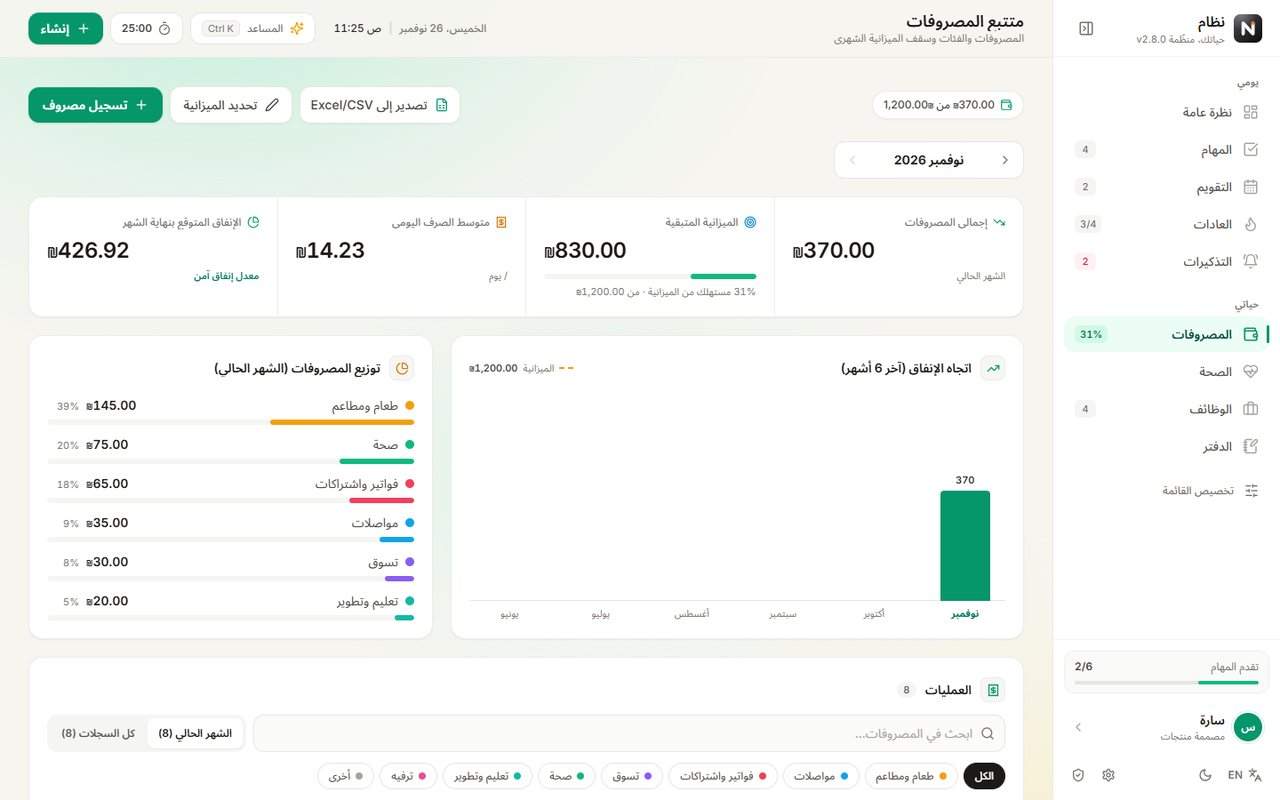
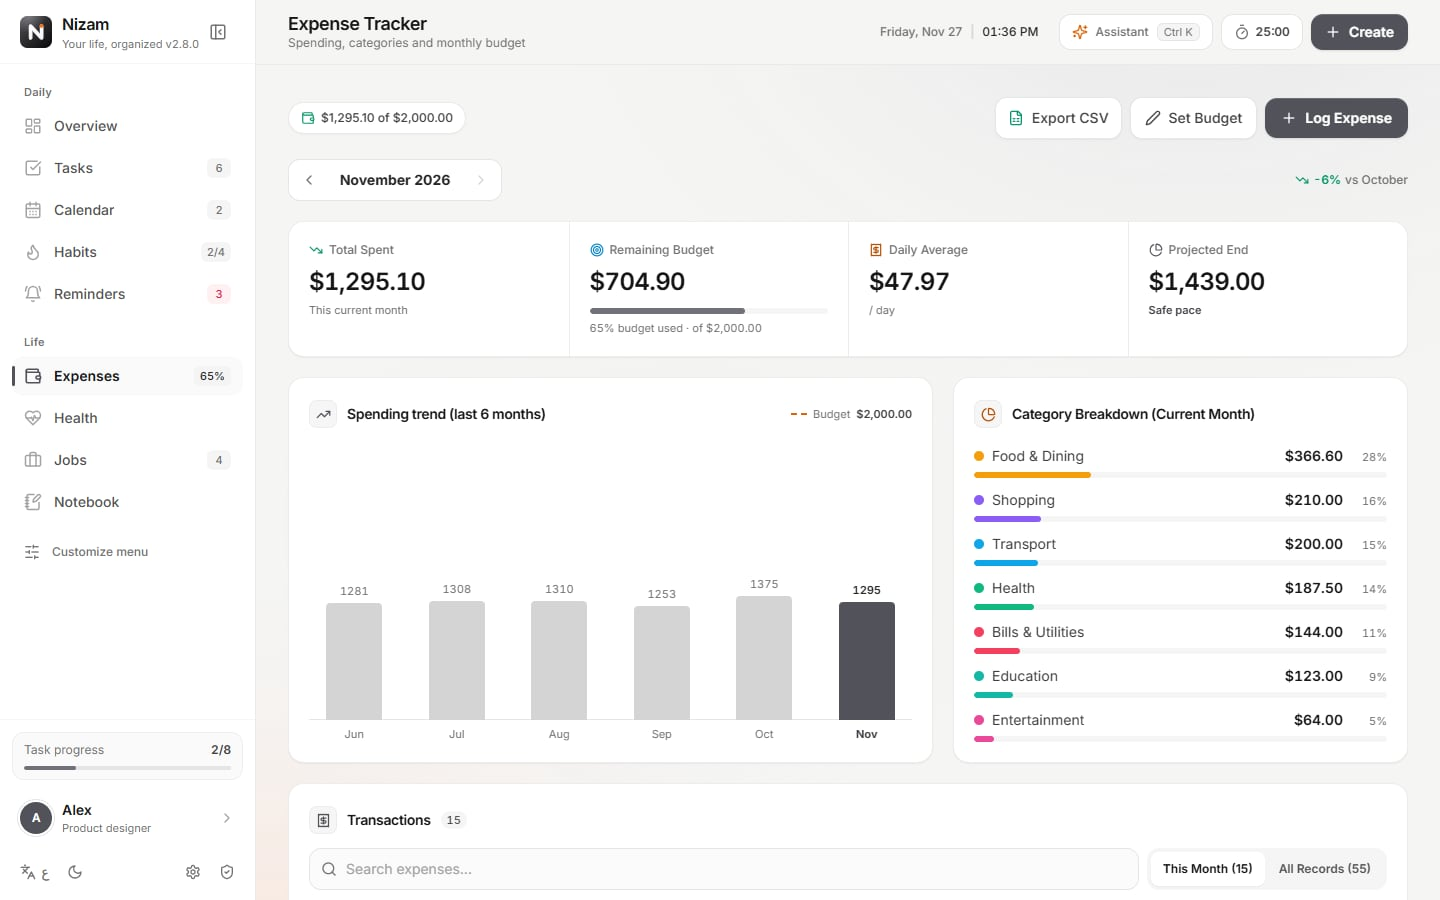
New English screenshots (Graphite, light + dark, example data); repo renamed to Nizam-App

diff --git a/README.md b/README.md
@@ -6,39 +6,58 @@
 Arabic & English · works offline · no account, no server · your data never leaves your computer</p>
 
 <p align="center">
-  <a href="https://github.com/Omar-Aqel/nizam-releases/releases/latest"><b>⬇ Download the latest version for Windows</b></a><br/>
+  <a href="https://github.com/Omar-Aqel/Nizam-App/releases/latest"><b>⬇ Download the latest version for Windows</b></a><br/>
   <a href="FEATURES.md">All features</a> · <a href="CHANGELOG.md">Changelog</a> · <a href="#بالعربية">العربية ↓</a>
 </p>
 
-<p align="center"><img src="docs/screenshots/overview.jpg" width="880" alt="Nizam Overview in Arabic: greeting, weather, today's progress, numbers strip, today's priorities and schedule" /></p>
+<p align="center"><img src="docs/screenshots/overview.jpg" width="880" alt="Nizam Overview in the Graphite theme, light mode: greeting, Jerusalem weather, today's progress, a numbers strip, today's priorities and the schedule" /></p>
 
 <table>
   <tr>
-    <td width="33%"><img src="docs/screenshots/overview-dark-en.jpg" alt="Overview in English, dark mode" /><p align="center"><sub>Overview · English, dark</sub></p></td>
-    <td width="33%"><img src="docs/screenshots/reminders.jpg" alt="Reminders page" /><p align="center"><sub>Recurring reminders · التذكيرات</sub></p></td>
-    <td width="33%"><img src="docs/screenshots/habits.jpg" alt="Habits with year heatmaps" /><p align="center"><sub>Habits · العادات</sub></p></td>
+    <td width="33%"><img src="docs/screenshots/overview-dark.jpg" alt="Overview in dark mode with Tel Aviv weather" /><p align="center"><sub>Overview · dark</sub></p></td>
+    <td width="33%"><img src="docs/screenshots/tasks.jpg" alt="Tasks grouped by day" /><p align="center"><sub>Tasks</sub></p></td>
+    <td width="33%"><img src="docs/screenshots/calendar-dark.jpg" alt="Calendar month view, dark mode" /><p align="center"><sub>Calendar · dark</sub></p></td>
   </tr>
   <tr>
-    <td><img src="docs/screenshots/notebook.jpg" alt="Notebook page" /><p align="center"><sub>Notebook · الدفتر</sub></p></td>
-    <td><img src="docs/screenshots/health.jpg" alt="Health page" /><p align="center"><sub>Health · الصحة</sub></p></td>
-    <td><img src="docs/screenshots/jobs.jpg" alt="Job applications board" /><p align="center"><sub>Job applications · الوظائف</sub></p></td>
+    <td><img src="docs/screenshots/habits.jpg" alt="Habits with year heatmaps" /><p align="center"><sub>Habits · a year at a glance</sub></p></td>
+    <td><img src="docs/screenshots/reminders-dark.jpg" alt="Recurring reminders, dark mode" /><p align="center"><sub>Reminders · dark</sub></p></td>
+    <td><img src="docs/screenshots/expenses.jpg" alt="Expenses: budget, six-month trend and categories" /><p align="center"><sub>Expenses</sub></p></td>
   </tr>
   <tr>
-    <td><img src="docs/screenshots/customize.jpg" alt="Customize the Overview" /><p align="center"><sub>Customise the Overview · التخصيص</sub></p></td>
-    <td><img src="docs/screenshots/tasks-dark-en.jpg" alt="Tasks in dark mode" /><p align="center"><sub>Tasks · المهام</sub></p></td>
-    <td><img src="docs/screenshots/settings.jpg" alt="Settings window" /><p align="center"><sub>Settings · الإعدادات</sub></p></td>
+    <td><img src="docs/screenshots/health-dark.jpg" alt="Health: calorie budget, macros, water and food diary, dark mode" /><p align="center"><sub>Health · dark</sub></p></td>
+    <td><img src="docs/screenshots/jobs.jpg" alt="Job applications board" /><p align="center"><sub>Job applications</sub></p></td>
+    <td><img src="docs/screenshots/notebook-dark.jpg" alt="Notebook page, dark mode" /><p align="center"><sub>Notebook · dark</sub></p></td>
   </tr>
 </table>
 
+<details>
+<summary><b>More screenshots: every page in light and dark</b></summary>
+<br/>
+<table>
+  <tr><th>Light</th><th>Dark</th></tr>
+  <tr><td><img src="docs/screenshots/tasks.jpg" alt="Tasks, light" /></td><td><img src="docs/screenshots/tasks-dark.jpg" alt="Tasks, dark" /></td></tr>
+  <tr><td><img src="docs/screenshots/calendar.jpg" alt="Calendar, light" /></td><td><img src="docs/screenshots/calendar-dark.jpg" alt="Calendar, dark" /></td></tr>
+  <tr><td><img src="docs/screenshots/habits.jpg" alt="Habits, light" /></td><td><img src="docs/screenshots/habits-dark.jpg" alt="Habits, dark" /></td></tr>
+  <tr><td><img src="docs/screenshots/reminders.jpg" alt="Reminders, light" /></td><td><img src="docs/screenshots/reminders-dark.jpg" alt="Reminders, dark" /></td></tr>
+  <tr><td><img src="docs/screenshots/expenses.jpg" alt="Expenses, light" /></td><td><img src="docs/screenshots/expenses-dark.jpg" alt="Expenses, dark" /></td></tr>
+  <tr><td><img src="docs/screenshots/health.jpg" alt="Health, light" /></td><td><img src="docs/screenshots/health-dark.jpg" alt="Health, dark" /></td></tr>
+  <tr><td><img src="docs/screenshots/jobs.jpg" alt="Job applications, light" /></td><td><img src="docs/screenshots/jobs-dark.jpg" alt="Job applications, dark" /></td></tr>
+  <tr><td><img src="docs/screenshots/notebook.jpg" alt="Notebook, light" /></td><td><img src="docs/screenshots/notebook-dark.jpg" alt="Notebook, dark" /></td></tr>
+  <tr><td><img src="docs/screenshots/customize.jpg" alt="Customise the Overview, light" /></td><td><img src="docs/screenshots/customize-dark.jpg" alt="Customise the Overview, dark" /></td></tr>
+  <tr><td><img src="docs/screenshots/settings.jpg" alt="Settings, light" /></td><td><img src="docs/screenshots/settings-dark.jpg" alt="Settings, dark" /></td></tr>
+</table>
+<p align="center"><sub>All screenshots use made-up example data, the Graphite theme and the English interface.</sub></p>
+</details>
+
 <p align="center">Designed and developed by <b>Omar Aqel</b> (عمر عقل) · <a href="https://www.linkedin.com/in/omar-aqel-710328343/">LinkedIn</a> · <a href="https://github.com/Omar-Aqel">GitHub</a></p>
 
-> This repository hosts the Windows installers and the auto-update feed. The source code is private.
+> This repository hosts the Windows installers and the auto-update feed (it was called `nizam-releases` before; old links still work). The source code is private.
 
 ---
 
 ## Install
 
-1. Open the **[latest release](https://github.com/Omar-Aqel/nizam-releases/releases/latest)** and download `Nizam-Setup-x.y.z.exe` (under *Assets*).
+1. Open the **[latest release](https://github.com/Omar-Aqel/Nizam-App/releases/latest)** and download `Nizam-Setup-x.y.z.exe` (under *Assets*).
 2. Run it. Windows SmartScreen may warn because the installer isn't code-signed: choose **More info → Run anyway**.
 3. A **Nizam** shortcut is added to the Desktop and the Start menu.
 
@@ -48,7 +67,7 @@ Arabic & English · works offline · no account, no server · your data never le
 
 ## What's new in 2.8
 
-- **Reminders:** "take zinc every other day", "dermaroller on Sunday and Wednesday" — a notification at the time you pick, a tick on the home screen, and the last 7 times at a glance.
+- **Reminders:** "water the plants every 3 days", "call grandma on Friday and Monday" — a notification at the time you pick, a tick on the home screen, and the last 7 times at a glance.
 - **Weather** on the home screen (your city, the sky, the temperature) and **Did you know?** — a new interesting fact every time you open the app.
 - **Make it yours:** customise the home screen (hide anything, reorder cards, choose their width), collapse the sidebar to icons (**Ctrl + \\**), reorder or hide pages.
 - **A welcome tour** that asks your name and city, a new **Settings** window, and a **right-click menu** for cut / copy / paste.
@@ -111,11 +130,11 @@ Copyright © 2026 Omar Aqel. All rights reserved. Nizam is free to download and 
 
 **نظام** تطبيق شخصي يجمع يومك وأموالك وعاداتك وصحتك وملاحظاتك في مكان واحد هادئ. يعمل بدون إنترنت وبدون حساب، وبياناتك لا تغادر جهازك أبداً.
 
-<p align="center"><a href="https://github.com/Omar-Aqel/nizam-releases/releases/latest"><b>⬇ نزّل أحدث إصدار لويندوز</b></a> · <a href="FEATURES.md#بالعربية">كل الميزات</a></p>
+<p align="center"><a href="https://github.com/Omar-Aqel/Nizam-App/releases/latest"><b>⬇ نزّل أحدث إصدار لويندوز</b></a> · <a href="FEATURES.md#بالعربية">كل الميزات</a></p>
 
 ### التثبيت
 
-1. افتح **[آخر إصدار](https://github.com/Omar-Aqel/nizam-releases/releases/latest)** ونزّل الملف `Nizam-Setup-x.y.z.exe` من قسم *Assets*.
+1. افتح **[آخر إصدار](https://github.com/Omar-Aqel/Nizam-App/releases/latest)** ونزّل الملف `Nizam-Setup-x.y.z.exe` من قسم *Assets*.
 2. شغّله. إذا ظهر تحذير من Windows SmartScreen اختر **More info ← Run anyway** (المثبّت غير موقّع رقمياً).
 3. ستجد اختصار **Nizam** على سطح المكتب وفي قائمة ابدأ.
 
@@ -125,7 +144,7 @@ Copyright © 2026 Omar Aqel. All rights reserved. Nizam is free to download and 
 
 ### الجديد في الإصدار 2.8
 
-- **التذكيرات:** «تناول الزنك يوم بعد يوم»، «الديرمارولر الأحد والأربعاء» — إشعار في الوقت الذي تختاره، وزر «تم» في الصفحة الرئيسية، وآخر 7 مرات أمامك.
+- **التذكيرات:** «اسقِ النباتات كل 3 أيام»، «اتصل بالجدة يومي الجمعة والاثنين» — إشعار في الوقت الذي تختاره، وزر «تم» في الصفحة الرئيسية، وآخر 7 مرات أمامك.
 - **الطقس** في الصفحة الرئيسية (مدينتك وحالة الطقس والحرارة)، و**هل تعلم؟** — معلومة مدهشة جديدة كل مرة تفتح التطبيق.
 - **خصّصه كما تحب:** رتّب بطاقات الصفحة الرئيسية وأخفِ ما لا تريده واختر عرض كل بطاقة، واطوِ الشريط الجانبي إلى أيقونات (**Ctrl + \\**)، ورتّب الصفحات أو أخفِها.
 - **جولة ترحيب** تسألك عن اسمك ومدينتك، و**نافذة إعدادات** جديدة أوضح، و**قائمة الزر الأيمن** للنسخ واللصق والقص.

diff --git a/FEATURES.md b/FEATURES.md
@@ -4,7 +4,7 @@
 
 <p align="center">Version 2.8.0 · <a href="#english">English</a> · <a href="#بالعربية">العربية</a></p>
 
-<p align="center"><img src="docs/screenshots/overview.jpg" width="820" alt="Nizam Overview in Arabic: greeting, weather, today's progress, numbers strip, priorities and schedule" /></p>
+<p align="center"><img src="docs/screenshots/overview.jpg" width="820" alt="Nizam Overview, Graphite theme, light mode: greeting, weather, today's progress, numbers strip, priorities and schedule" /></p>
 
 ---
 
@@ -18,7 +18,7 @@
 
 ### Overview
 
-<img src="docs/screenshots/overview-dark-en.jpg" width="640" alt="Overview in English, dark mode" />
+<img src="docs/screenshots/overview-dark.jpg" width="640" alt="Overview in dark mode" />
 
 - **Greeting with your name** and a one-line summary of the day ("Today: 1 left to do · 2 on your calendar").
 - **Weather:** your city, the sky outside and the temperature, with today's high and low. Click it to change the city.
@@ -36,14 +36,14 @@
 - Filters and search; tasks are **grouped by day** with a done / total count; older days fold away.
 - "All done" state when the list is empty.
 
-<img src="docs/screenshots/tasks-dark-en.jpg" width="640" alt="Tasks page in dark mode" />
+<img src="docs/screenshots/tasks-dark.jpg" width="640" alt="Tasks page in dark mode" />
 
 ### Calendar
 
 - Month grid with a per-day agenda; time, location and notes per event.
 - **Google Calendar / Outlook subscriptions** through a private iCal link (desktop app): recurring events, time zones and exceptions handled, shown read-only in their own colour.
 
-<img src="docs/screenshots/calendar-rail.jpg" width="640" alt="Calendar with the sidebar collapsed to icons" />
+<img src="docs/screenshots/calendar.jpg" width="640" alt="Calendar month view with today's events" />
 
 ### Habits
 
@@ -57,12 +57,12 @@
 
 ### Reminders
 
-- **Recurring reminders with a notification at their time:** every day, every few days ("every other day" for a supplement) or on chosen weekdays ("Sunday and Wednesday" for skincare).
+- **Recurring reminders with a notification at their time:** every day, every few days ("water the plants every 3 days") or on chosen weekdays ("call grandma on Friday and Monday").
 - Today's reminders sit on the Overview and the Reminders page with a big tick; see the last 7 times (done or missed) and the next date.
 - Pause and resume, edit, delete with undo; a note and a colour per reminder.
 - If the app was closed at the reminder's time, it notifies as soon as it opens.
 
-<img src="docs/screenshots/reminders.jpg" width="640" alt="Reminders page: today's reminders and all reminders" />
+<img src="docs/screenshots/reminders-dark.jpg" width="640" alt="Reminders page: today's reminders and all reminders" />
 
 ### Expenses
 
@@ -78,7 +78,7 @@
 - **Exercise log** with calories from MET values: remaining = budget − food + exercise.
 - Macro rings, 7-day chart, weekly under / over, weight trend with goal line and projected goal date, water.
 
-<img src="docs/screenshots/health.jpg" width="640" alt="Health page" />
+<img src="docs/screenshots/health-dark.jpg" width="640" alt="Health page" />
 
 ### Jobs
 
@@ -96,7 +96,7 @@
 - Full screen (Esc exits), page list on the left, right or hidden, customisable toolbar, **export a page as PDF**, Markdown download, pin, search, duplicate.
 - Arabic and English in the same page: each paragraph follows its own direction.
 
-<img src="docs/screenshots/notebook.jpg" width="640" alt="Notebook page" />
+<img src="docs/screenshots/notebook-dark.jpg" width="640" alt="Notebook page" />
 
 ### Focus timer
 
@@ -105,7 +105,7 @@
 
 ### Assistant (Ctrl + K)
 
-- Type a sentence in Arabic or English — "صرفت 25 شيكل على قهوة", "add task review lecture tomorrow" — and see exactly what will be created before pressing Enter.
+- Type a sentence in Arabic or English — "صرفت 25 شيكل على قهوة", "add task call the bank tomorrow" — and see exactly what will be created before pressing Enter.
 - Also opens pages and settings, switches language or theme, exports data. Rule-based and on-device; voice input in Chrome / Edge.
 
 ### Navigation and layout
@@ -124,7 +124,7 @@
 - **7 Arabic + Latin fonts**, three text sizes, a *Reduce animations* switch.
 - **Settings** in one large window with the sections listed on the side.
 
-<img src="docs/screenshots/settings.jpg" width="640" alt="Settings window" />
+<img src="docs/screenshots/settings-dark.jpg" width="640" alt="Settings window" />
 
 ### Effects
 
@@ -194,7 +194,7 @@
 
 ### التذكيرات
 
-- **تذكيرات دورية مع إشعار في موعدها:** كل يوم، أو كل عدة أيام (مثل الزنك يوم بعد يوم)، أو أيام محددة (مثل الديرمارولر الأحد والأربعاء).
+- **تذكيرات دورية مع إشعار في موعدها:** كل يوم، أو كل عدة أيام (مثل سقي النباتات كل 3 أيام)، أو أيام محددة (مثل الاتصال بالجدة يومي الجمعة والاثنين).
 - تذكيرات اليوم تظهر في النظرة العامة وصفحة التذكيرات مع زر «تم»، وترى آخر 7 مرات والموعد القادم.
 - إيقاف مؤقت واستئناف وتعديل وحذف مع تراجع، وملاحظة ولون لكل تذكير.
 - إذا كان التطبيق مغلقًا وقت التذكير، يظهر الإشعار فور فتحه.

diff --git a/CHANGELOG.md b/CHANGELOG.md
@@ -1,6 +1,6 @@
 # Changelog
 
-Release notes for Nizam. The latest installer is on the [releases page](https://github.com/Omar-Aqel/nizam-releases/releases/latest).
+Release notes for Nizam. The latest installer is on the [releases page](https://github.com/Omar-Aqel/Nizam-App/releases/latest).
 
 ### v2.8.0 — your workspace, your way
 
